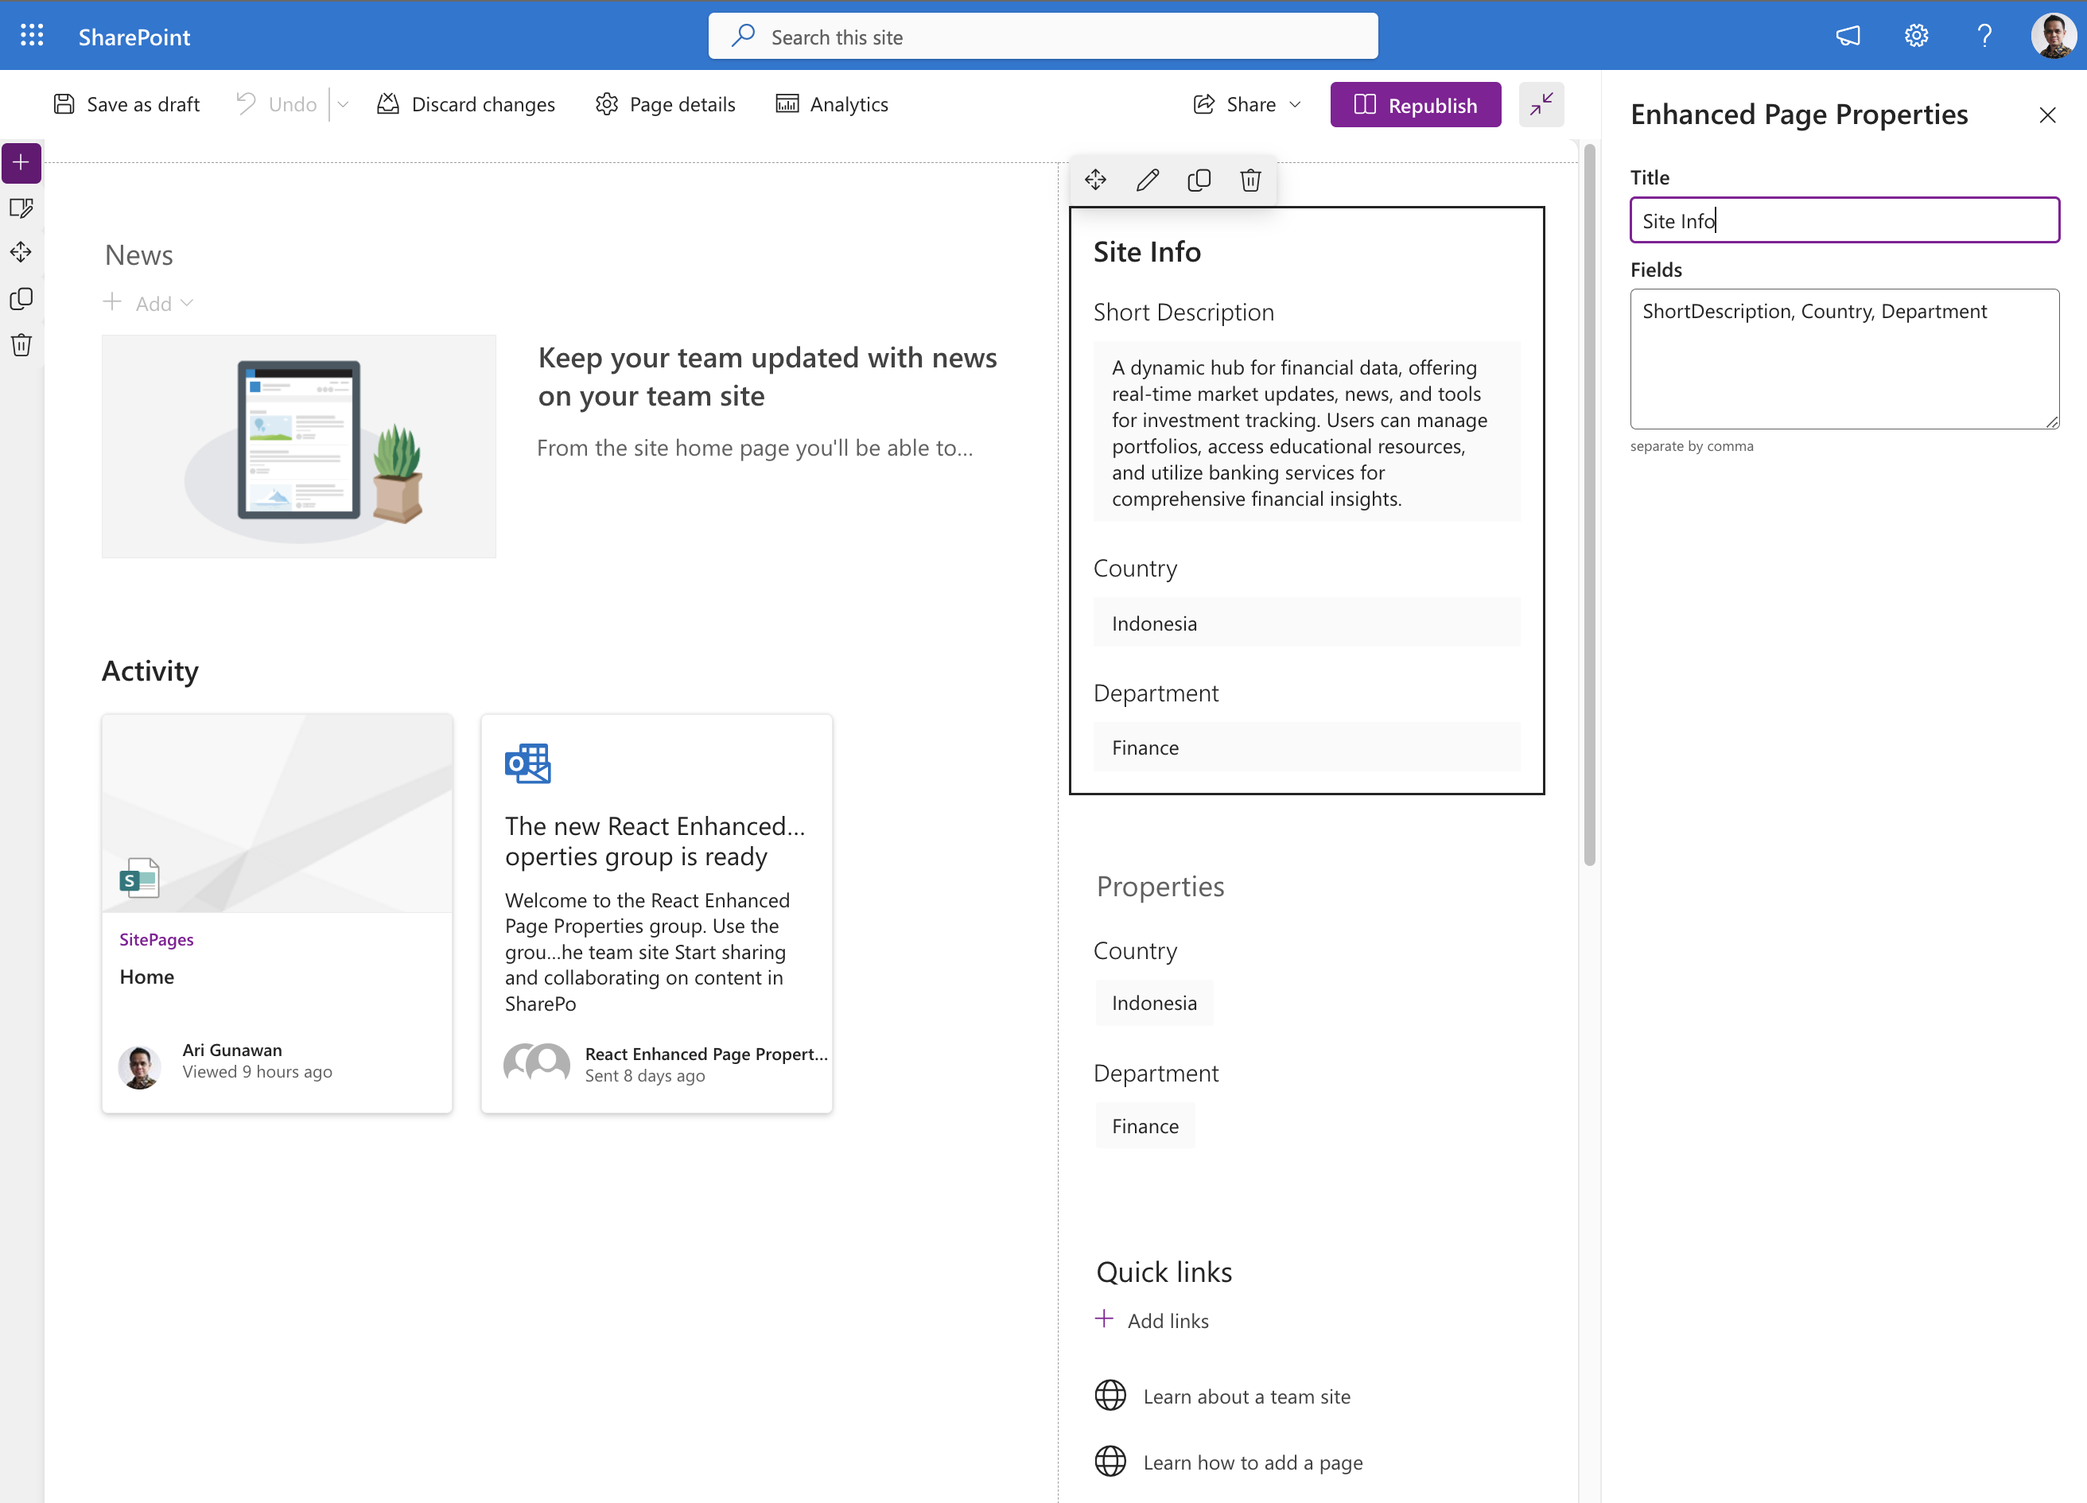
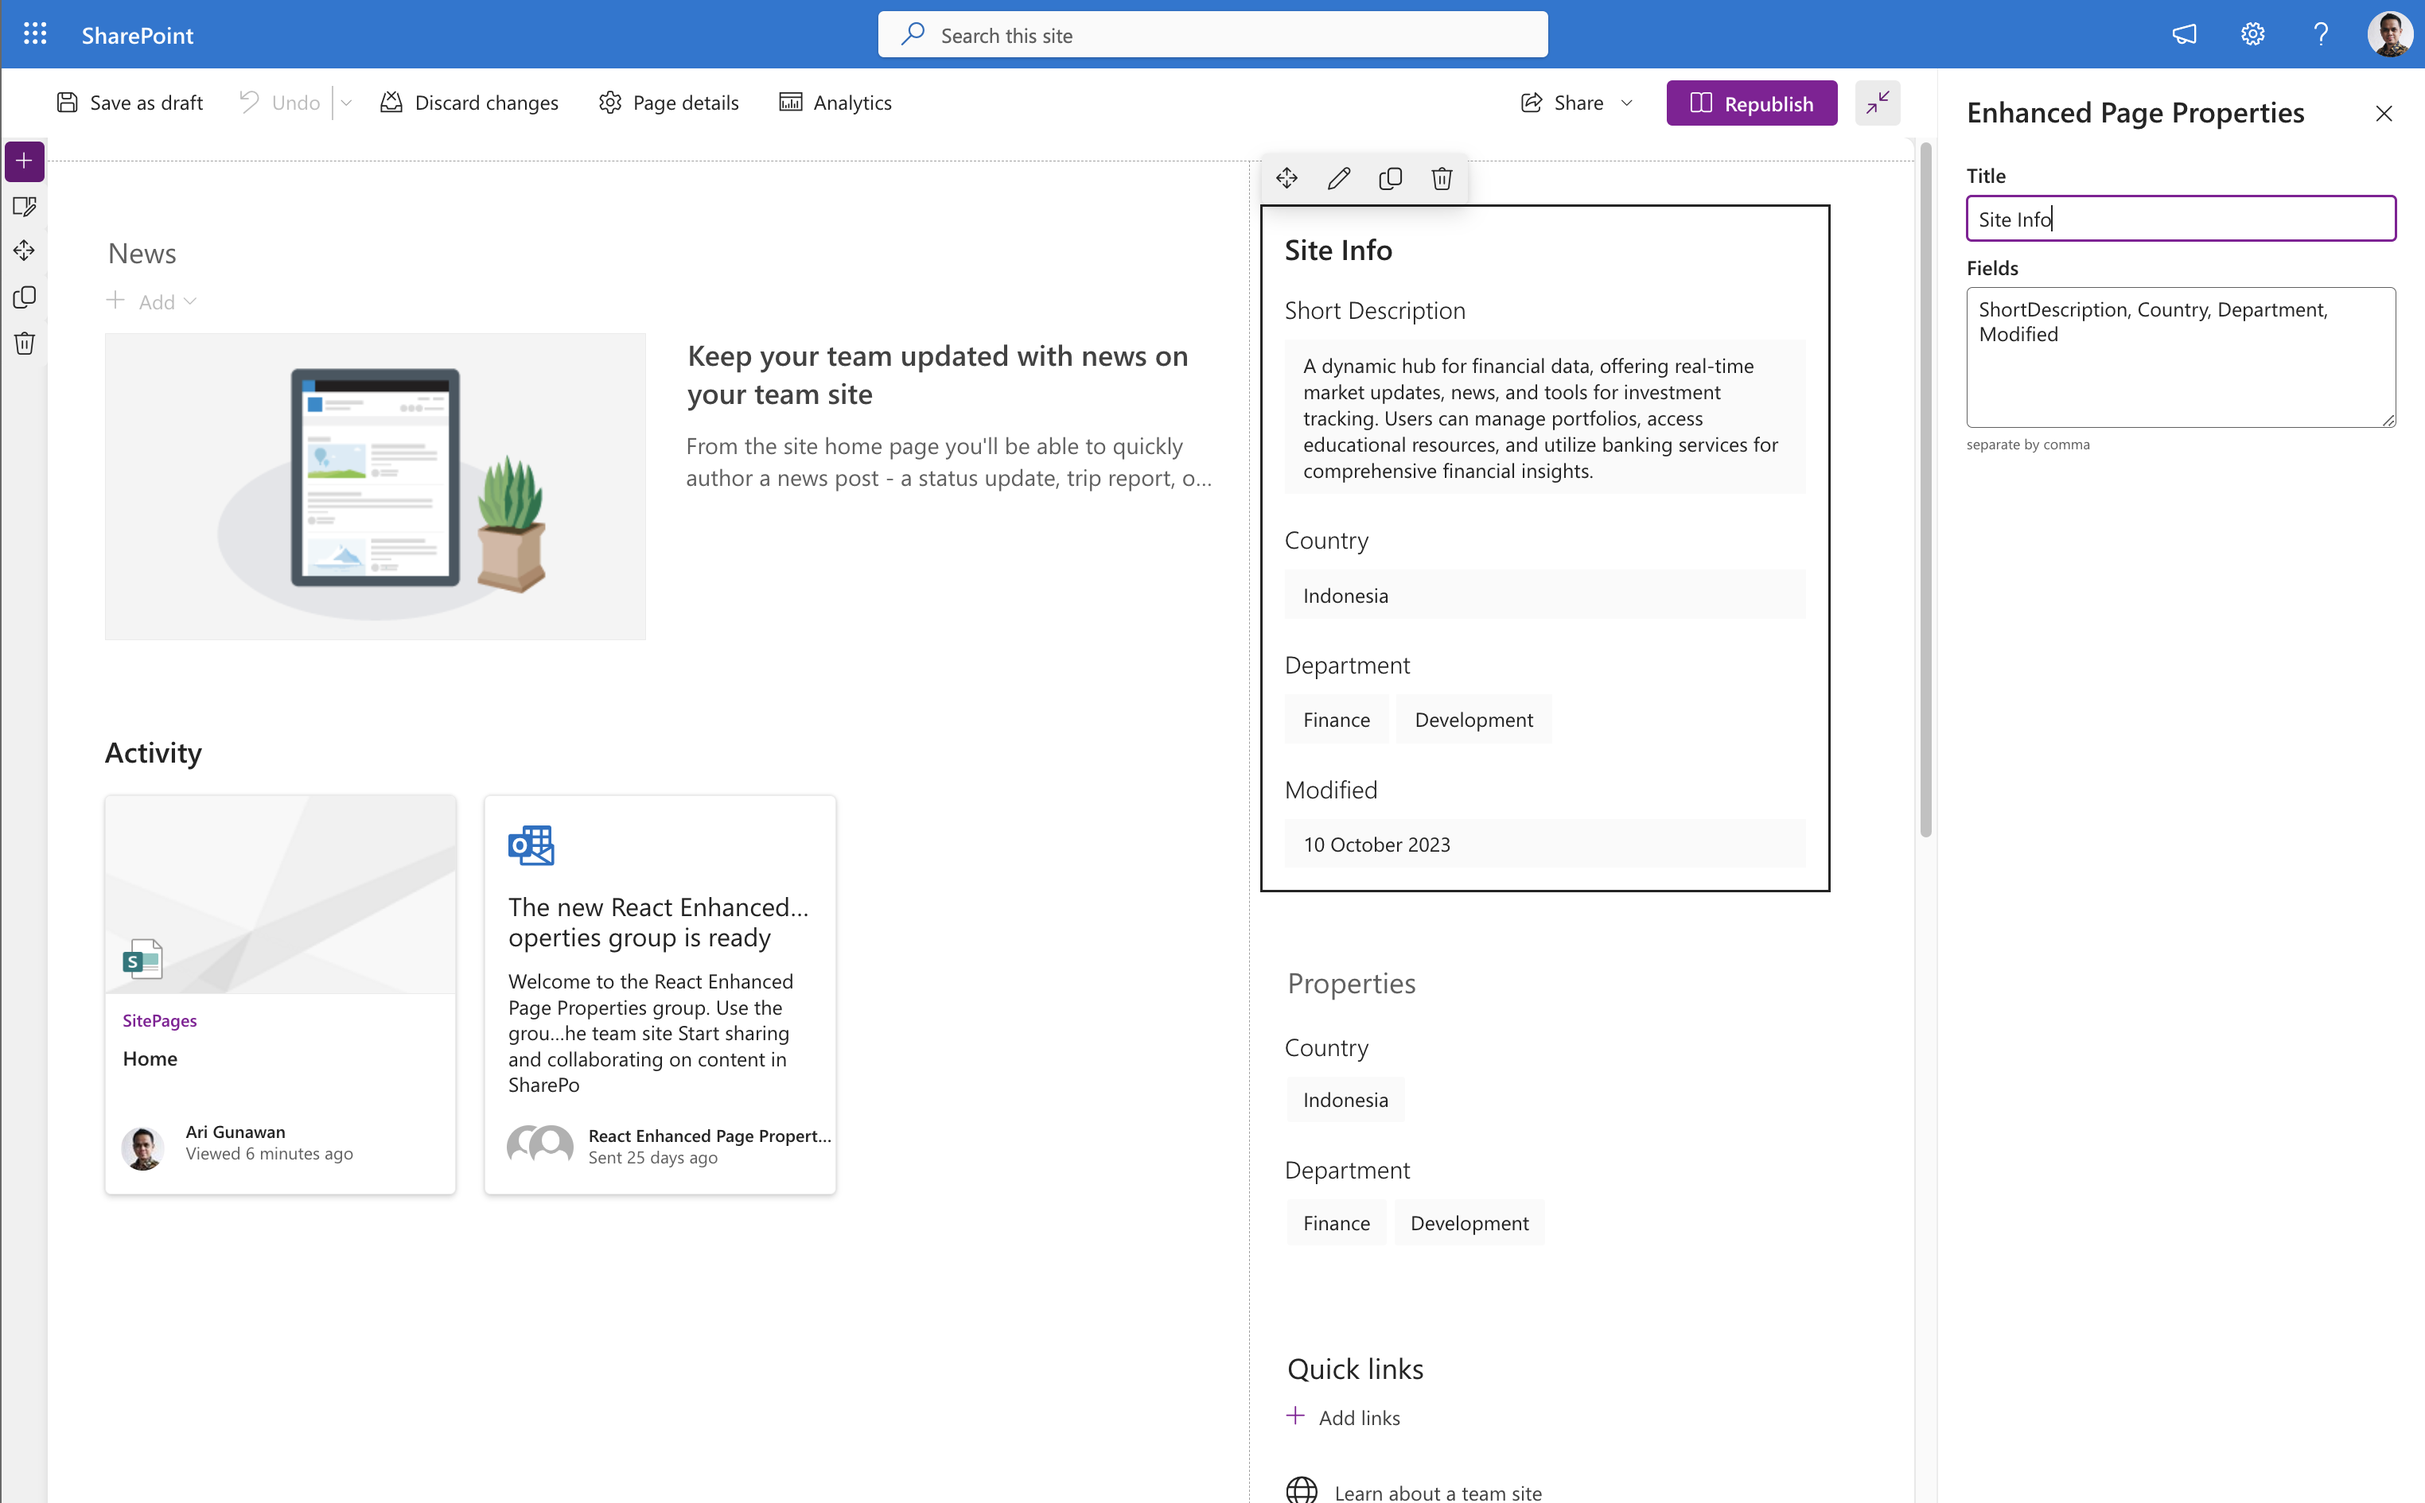
Add support for choice and date fields

diff --git a/samples/react-enhanced-page-properties/src/webparts/enhancedPageProperties/EnhancedPagePropertiesWebPart.ts b/samples/react-enhanced-page-properties/src/webparts/enhancedPageProperties/EnhancedPagePropertiesWebPart.ts
@@ -16,6 +16,7 @@ import { SPFI, spfi, SPFx } from "@pnp/sp";
 
 import EnhancedPageProperties from "./components/EnhancedPageProperties";
 import { IEnhancedPagePropertiesProps } from "./components/IEnhancedPagePropertiesProps";
+import { IFieldInfo } from "@pnp/sp/fields";
 
 export interface IEnhancedPagePropertiesWebPartProps {
   title: string;
@@ -23,14 +24,13 @@ export interface IEnhancedPagePropertiesWebPartProps {
 }
 
 export interface propertyItem {
+  field?: IFieldInfo;
+  value: string | string[];
   label: string;
-  field: string;
-  value: string;
-  isAvailable: boolean;
 }
 
 export default class EnhancedPagePropertiesWebPart extends BaseClientSideWebPart<IEnhancedPagePropertiesWebPartProps> {
-  private readonly docLibTitle = 'Site Pages';
+  private readonly docLibTitle = "Site Pages";
   private _sp: SPFI;
 
   public async render(): Promise<void> {
@@ -59,11 +59,11 @@ export default class EnhancedPagePropertiesWebPart extends BaseClientSideWebPart
       .getByTitle(this.docLibTitle)
       .fields();
     // Filter to only non hidden fields
-    const filteredAvailableFields: Map<string, string> = new Map();
+    const filteredAvailableFields: Map<string, IFieldInfo> = new Map();
     for (let i = 0; i < availableFields.length; i++) {
       const field = availableFields[i];
       if (field.Hidden) continue;
-      filteredAvailableFields.set(field.InternalName, field.Title);
+      filteredAvailableFields.set(field.InternalName, field);
     }
 
     const selectedFields = this.convertSelectedFieldsString();
@@ -76,13 +76,12 @@ export default class EnhancedPagePropertiesWebPart extends BaseClientSideWebPart
         ...selectedFields.filter((field) => filteredAvailableFields.has(field))
       )();
     for (let i = 0; i < selectedFields.length; i++) {
-      const field = selectedFields[i];
-      const isAvailable = filteredAvailableFields.has(field);
+      const internalName = selectedFields[i];
+      const field = filteredAvailableFields.get(internalName);
       propertyItems.push({
         field,
-        isAvailable,
-        label: isAvailable ? (filteredAvailableFields.get(field) || '') : field,
-        value: currentPageProperties[field],
+        label: field ? field.Title : internalName,
+        value: currentPageProperties[internalName],
       });
     }
     return propertyItems;

diff --git a/samples/react-enhanced-page-properties/src/webparts/enhancedPageProperties/components/EnhancedPageProperties.tsx b/samples/react-enhanced-page-properties/src/webparts/enhancedPageProperties/components/EnhancedPageProperties.tsx
@@ -2,6 +2,7 @@ import * as React from 'react';
 
 import styles from './EnhancedPageProperties.module.scss';
 import { IEnhancedPagePropertiesProps } from './IEnhancedPagePropertiesProps';
+import Value from './Value/Value';
 
 export default function EnhancedPageProperties(
   props: IEnhancedPagePropertiesProps
@@ -11,10 +12,10 @@ export default function EnhancedPageProperties(
       <h2>{props.title}</h2>
       <div className={styles.content}>
         {props.items.map((item) => (
-          <div key={item.field} className={styles.item}>
+          <div key={item.field?.Id} className={styles.item}>
             <h3>{item.label}</h3>
-            {item.isAvailable ? (
-              <span>{item.value || "-"}</span>
+            {item.field ? (
+              <Value field={item.field} value={item.value} />
             ) : (
               <span className={styles.errorMessage}>
                 Field not available in the Library metadata. Please check again the

diff --git a/samples/react-enhanced-page-properties/src/webparts/enhancedPageProperties/components/Value/Value.tsx b/samples/react-enhanced-page-properties/src/webparts/enhancedPageProperties/components/Value/Value.tsx
@@ -1,0 +1,34 @@
+import { IFieldInfo } from "@pnp/sp/fields";
+import { format } from "date-fns";
+import * as React from "react";
+import styles from "../EnhancedPageProperties.module.scss";
+
+export interface IValueProps {
+  field: IFieldInfo;
+  value: string | string[];
+}
+
+export default function Value(props: IValueProps): JSX.Element {
+  if (!props.value) return <span>-</span>;
+
+  switch (props.field.TypeDisplayName) {
+    case "Choice": {
+      const value = props.value as string[];
+      return (
+        <div className={styles.choice}>
+          {value.map((item: string) => (
+            <span key={item}>{item}</span>
+          ))}
+        </div>
+      );
+    }
+    case "Date and Time": {
+      return (
+        <span>{format(new Date(props.value as string), "dd MMMM yyyy")}</span>
+      );
+    }
+    default: {
+      return <span>{props.value}</span>;
+    }
+  }
+}

diff --git a/samples/react-enhanced-page-properties/src/webparts/enhancedPageProperties/components/EnhancedPageProperties.module.scss b/samples/react-enhanced-page-properties/src/webparts/enhancedPageProperties/components/EnhancedPageProperties.module.scss
@@ -18,6 +18,11 @@
         margin-bottom: 10px;
       }
 
+      .choice {
+        display: flex;
+        gap: 5px;
+      }
+
       span {
         background-color: #fafafa;
         padding: 8px 13px;
@@ -36,7 +41,6 @@
           background-color: #fce100;
         }
       }
-
     }
   }
 }

diff --git a/samples/react-enhanced-page-properties/README.md b/samples/react-enhanced-page-properties/README.md
@@ -4,6 +4,12 @@
 
 This is a web part that goes beyond the standard SharePoint Page Properties web part, offering expanded support for various metadata types and configurations. Effortlessly display key page details based on metadata files, providing a comprehensive view of your content. Streamline information management and enhance user interaction with this versatile and customizable web part.
 
+Currently support following types:
+- Single line text
+- Multiple line text
+- Choice
+- Date
+
 ### Configuration
 
 - **Title**: Allow to set the displayed title. The built in SharePoint Page Properties web part doesn't allow user to change the displayed title. It will always be **Properties**
@@ -11,9 +17,12 @@ This is a web part that goes beyond the standard SharePoint Page Properties web 
 
 ### Plan for next version
 
-- Support choice field view
+- Support taxonomy field view
 - Support people field view
-- Support date time field view
+- Support lookup field view
+- Support currency field view
+- Support hyperlink field view
+- Support image field view
 - Improve web part configuration
 
 ![Web part](assets/app.png)
@@ -40,6 +49,7 @@ This is a web part that goes beyond the standard SharePoint Page Properties web 
 
 Version|Date|Comments
 -------|----|--------
+1.1|October 23, 2023|Add support for choice and date fields
 1.0|September 23, 2023|Initial release
 
 ## Minimal path to awesome
